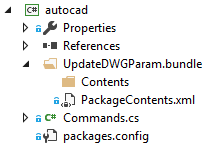
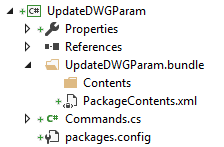
reviewing autocad folders

diff --git a/docs/designautomation/appbundle/engines/autocad.md b/docs/designautomation/appbundle/engines/autocad.md
@@ -1,12 +1,23 @@
 # Prepare an AutoCAD bundle
 
-This step will help you create a basic AutoCAD plugin. For more information, please visit [My First AutoCAD Plugin](https://knowledge.autodesk.com/support/autocad/learn-explore/caas/simplecontent/content/my-first-autocad-plug-overview.html) tutorial.
+This step will help you create a basic AutoCAD plugin for Design Automation. For more information, please visit [My First AutoCAD Plugin](https://knowledge.autodesk.com/support/autocad/learn-explore/caas/simplecontent/content/my-first-autocad-plug-overview.html) tutorial.
 
 ## Create a new project
 
-Right-click on the solution, the **Add** >> **New Project**. Select **Windows Desktop**, then **Class Library** and, finally, name it `autocad`.
+Right-click on the solution, the **Add** >> **New Project**. Select **Windows Desktop**, then **Class Library** and, finally, name it `UpdateDWGParam`. Then right-click on the project, go to **Manage NuGet Packages...**, under **Browser** you can search for **AutoCAD.NET** and install `AutoCAD.NET.Core` (which also installs `AutoCAD.NET.Model`). Then search and install `Newtonsoft.Json` (which is used to parse input data in JSON format).
 
 ![](_media/designautomation/autocad/new_project.gif)
+
+As a result, the **package.config** should look like the following. These are the latest version as of Feb/2019.
+
+```xml
+<?xml version="1.0" encoding="utf-8"?>
+<packages>
+  <package id="AutoCAD.NET.Core" version="23.0.0" targetFramework="net47" />
+  <package id="AutoCAD.NET.Model" version="23.0.0" targetFramework="net47" />
+  <package id="Newtonsoft.Json" version="12.0.1" targetFramework="net47" />
+</packages>
+```
 
 The project should contain a `Class1.cs` class, let's rename the file to `Commands.cs` (for consistency). 
 
@@ -17,17 +28,16 @@ This is the main code that will run with AutoCAD. Copy the following content int
 ```csharp
 using Autodesk.AutoCAD.ApplicationServices.Core;
 using Autodesk.AutoCAD.DatabaseServices;
-using Autodesk.AutoCAD.EditorInput;
 using Autodesk.AutoCAD.Runtime;
 using Newtonsoft.Json;
 using System.IO;
 
-[assembly: CommandClass(typeof(Autodesk.Forge.Sample.DesignAutomation.AutoCAD.MainEntry))]
+[assembly: CommandClass(typeof(Autodesk.Forge.Sample.DesignAutomation.AutoCAD.Commands))]
 [assembly: ExtensionApplication(null)]
 
 namespace Autodesk.Forge.Sample.DesignAutomation.AutoCAD
 {
-  public class MainEntry
+  public class Commands
   {
     [CommandMethod("UpdateParam", CommandFlags.Modal)]
     public static void UpdateParam()
@@ -62,7 +72,6 @@ namespace Autodesk.Forge.Sample.DesignAutomation.AutoCAD
               {
                 dynBlockRefs.Add(id);
               }
-
             }
             if (dynBlockRefs.Count > 0)
             {
@@ -119,33 +128,15 @@ namespace Autodesk.Forge.Sample.DesignAutomation.AutoCAD
 
 ## PackageContents.xml
 
-Create a folder named `UpdateDWGParam.bundle` and, inside, a file named `PackageContents.xml`, then copy the following content to it. Learn more about PackageContents at the [AutoCAD Developer Center](https://www.autodesk.com/developer-network/platform-technologies/autocad).
+Create a folder named `UpdateDWGParam.bundle` and, inside, a file named `PackageContents.xml`, then copy the following content to it. Learn more at the [PackageContents.xml Format Reference](https://knowledge.autodesk.com/search-result/caas/CloudHelp/cloudhelp/2016/ENU/AutoCAD-Customization/files/GUID-BC76355D-682B-46ED-B9B7-66C95EEF2BD0-htm.html).
 
 ```xml
 <?xml version="1.0" encoding="utf-8" ?>
-<ApplicationPackage
-    SchemaVersion="1.0"
-    Version="1.0"
-    ProductCode="{F11EA57A-1E7E-4B6D-8E81-986B071E3E07}"
-    Name="UpdateWindowParameters"
-    Description="A sample package to update parameters of a Dyanmic blockreference"
-    Author="Autodesk Forge">
-  <CompanyDetails
-      Name="Autodesk, Inc"
-      Phone="12345678910"
-      Url="www.autodesk.com"
-      Email="forge.help@autodesk.com"/>
+<ApplicationPackage SchemaVersion="1.0" Version="1.0" ProductCode="{F11EA57A-1E7E-4B6D-8E81-986B071E3E07}" Name="UpdateWindowParameters" Description="A sample package to update parameters of a Dyanmic blockreference" Author="Autodesk Forge">
+  <CompanyDetails Name="Autodesk, Inc" Phone="12345678910" Url="www.autodesk.com" Email="forge.help@autodesk.com"/>
   <Components>
-    <RuntimeRequirements
-        OS="Win64"
-        Platform="AutoCAD"
-		SeriesMin="R23.0" SeriesMax="R23.0"/>
-    <ComponentEntry
-        AppName="UpdateWindowParameters"
-        ModuleName="./Contents/UpdateDWGParam.dll"
-        AppDescription="AutoCAD.IO .net App to update parameters of Dynamic blockreference in AutoCAD Drawing"
-        LoadOnCommandInvocation="True"
-        LoadOnAutoCADStartup="True">
+    <RuntimeRequirements OS="Win64" Platform="AutoCAD" SeriesMin="R23.0" SeriesMax="R23.0"/>
+    <ComponentEntry AppName="UpdateWindowParameters" ModuleName="./Contents/UpdateDWGParam.dll" AppDescription="AutoCAD.IO .net App to update parameters of Dynamic blockreference in AutoCAD Drawing" LoadOnCommandInvocation="True" LoadOnAutoCADStartup="True">
       <Commands GroupName="FPDCommands">
         <Command Global="UpdateWindowParam" Local="UpdateWindowParam"/>
       </Commands>
@@ -164,15 +155,17 @@ Now we need to ZIP the .bundle folder. Right-click on the project, select **Prop
 
 ```
 xcopy /Y /F $(TargetDir)*.dll $(ProjectDir)UpdateDWGParam.bundle\Contents\
-del /F $(ProjectDir)..\webapp\wwwroot\bundles\UpdateDWGParam.zip
-"C:\Program Files\7-Zip\7z.exe" a -tzip $(ProjectDir)../webapp/wwwroot/bundles/UpdateDWGParam.zip  $(ProjectDir)UpdateDWGParam.bundle\ -xr0!*.pdb
+del /F $(ProjectDir)..\forgesample\wwwroot\bundles\UpdateDWGParam.zip
+"C:\Program Files\7-Zip\7z.exe" a -tzip $(ProjectDir)../forgesample/wwwroot/bundles/UpdateDWGParam.zip  $(ProjectDir)UpdateDWGParam.bundle\ -xr0!*.pdb
 ```
 
 This will copy the DLL from /bin/debug/ into .bundle/Contents folder, then use [7zip](https://www.7-zip.org/) to create a zip, then finally copy the ZIP into /bundles folders of the webapp.
 
 ![](_media/designautomation/autocad/post_build.png)
 
-If you build the `autocad` project now you should see something like this on the **Output** window. Note the 2 folders and 3 files zipped. The zip file is created directly at the /wwwroot/bundles folder. This means you're doing great! :wink:
+> Note how the **Post-build event** uses the project and folder names, so make sure you're using this names.
+
+If you build the `UpdateDWGParam` project now you should see something like this on the **Output** window. Note the 2 folders and 3 files zipped. The zip file is created directly at the /wwwroot/bundles folder. This means you're doing great! :wink:
 
 ![](_media/designautomation/autocad/build_output.png)
 
